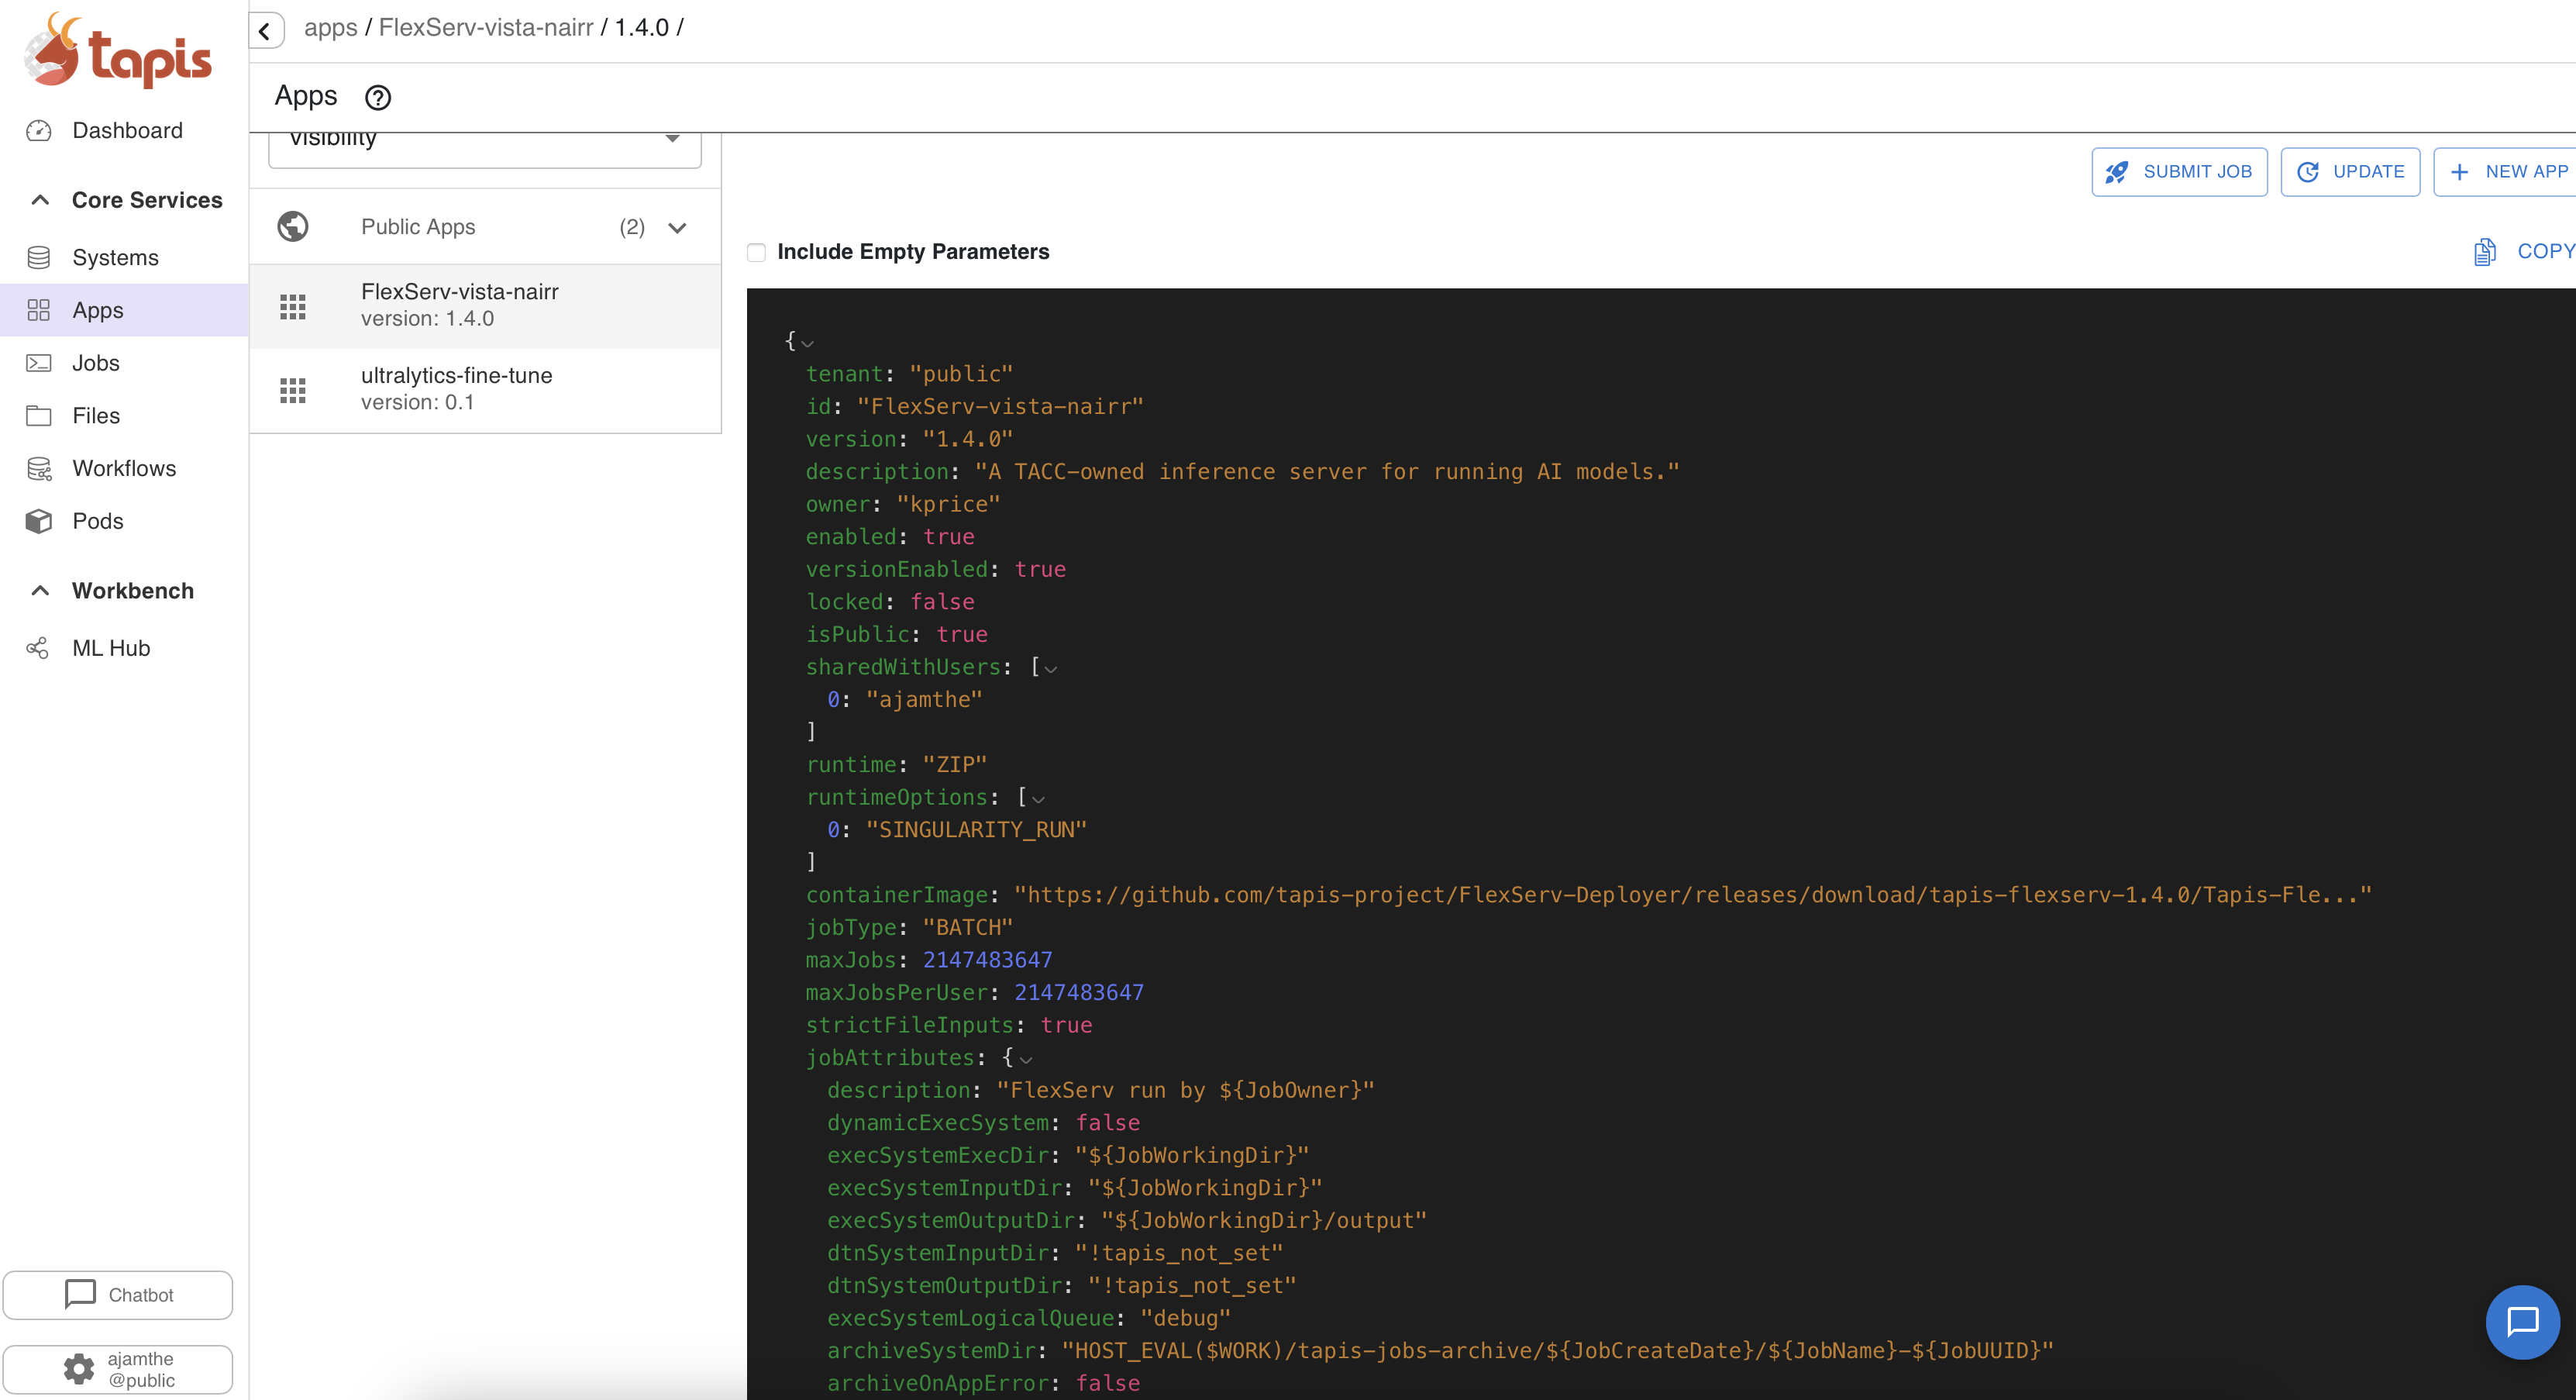
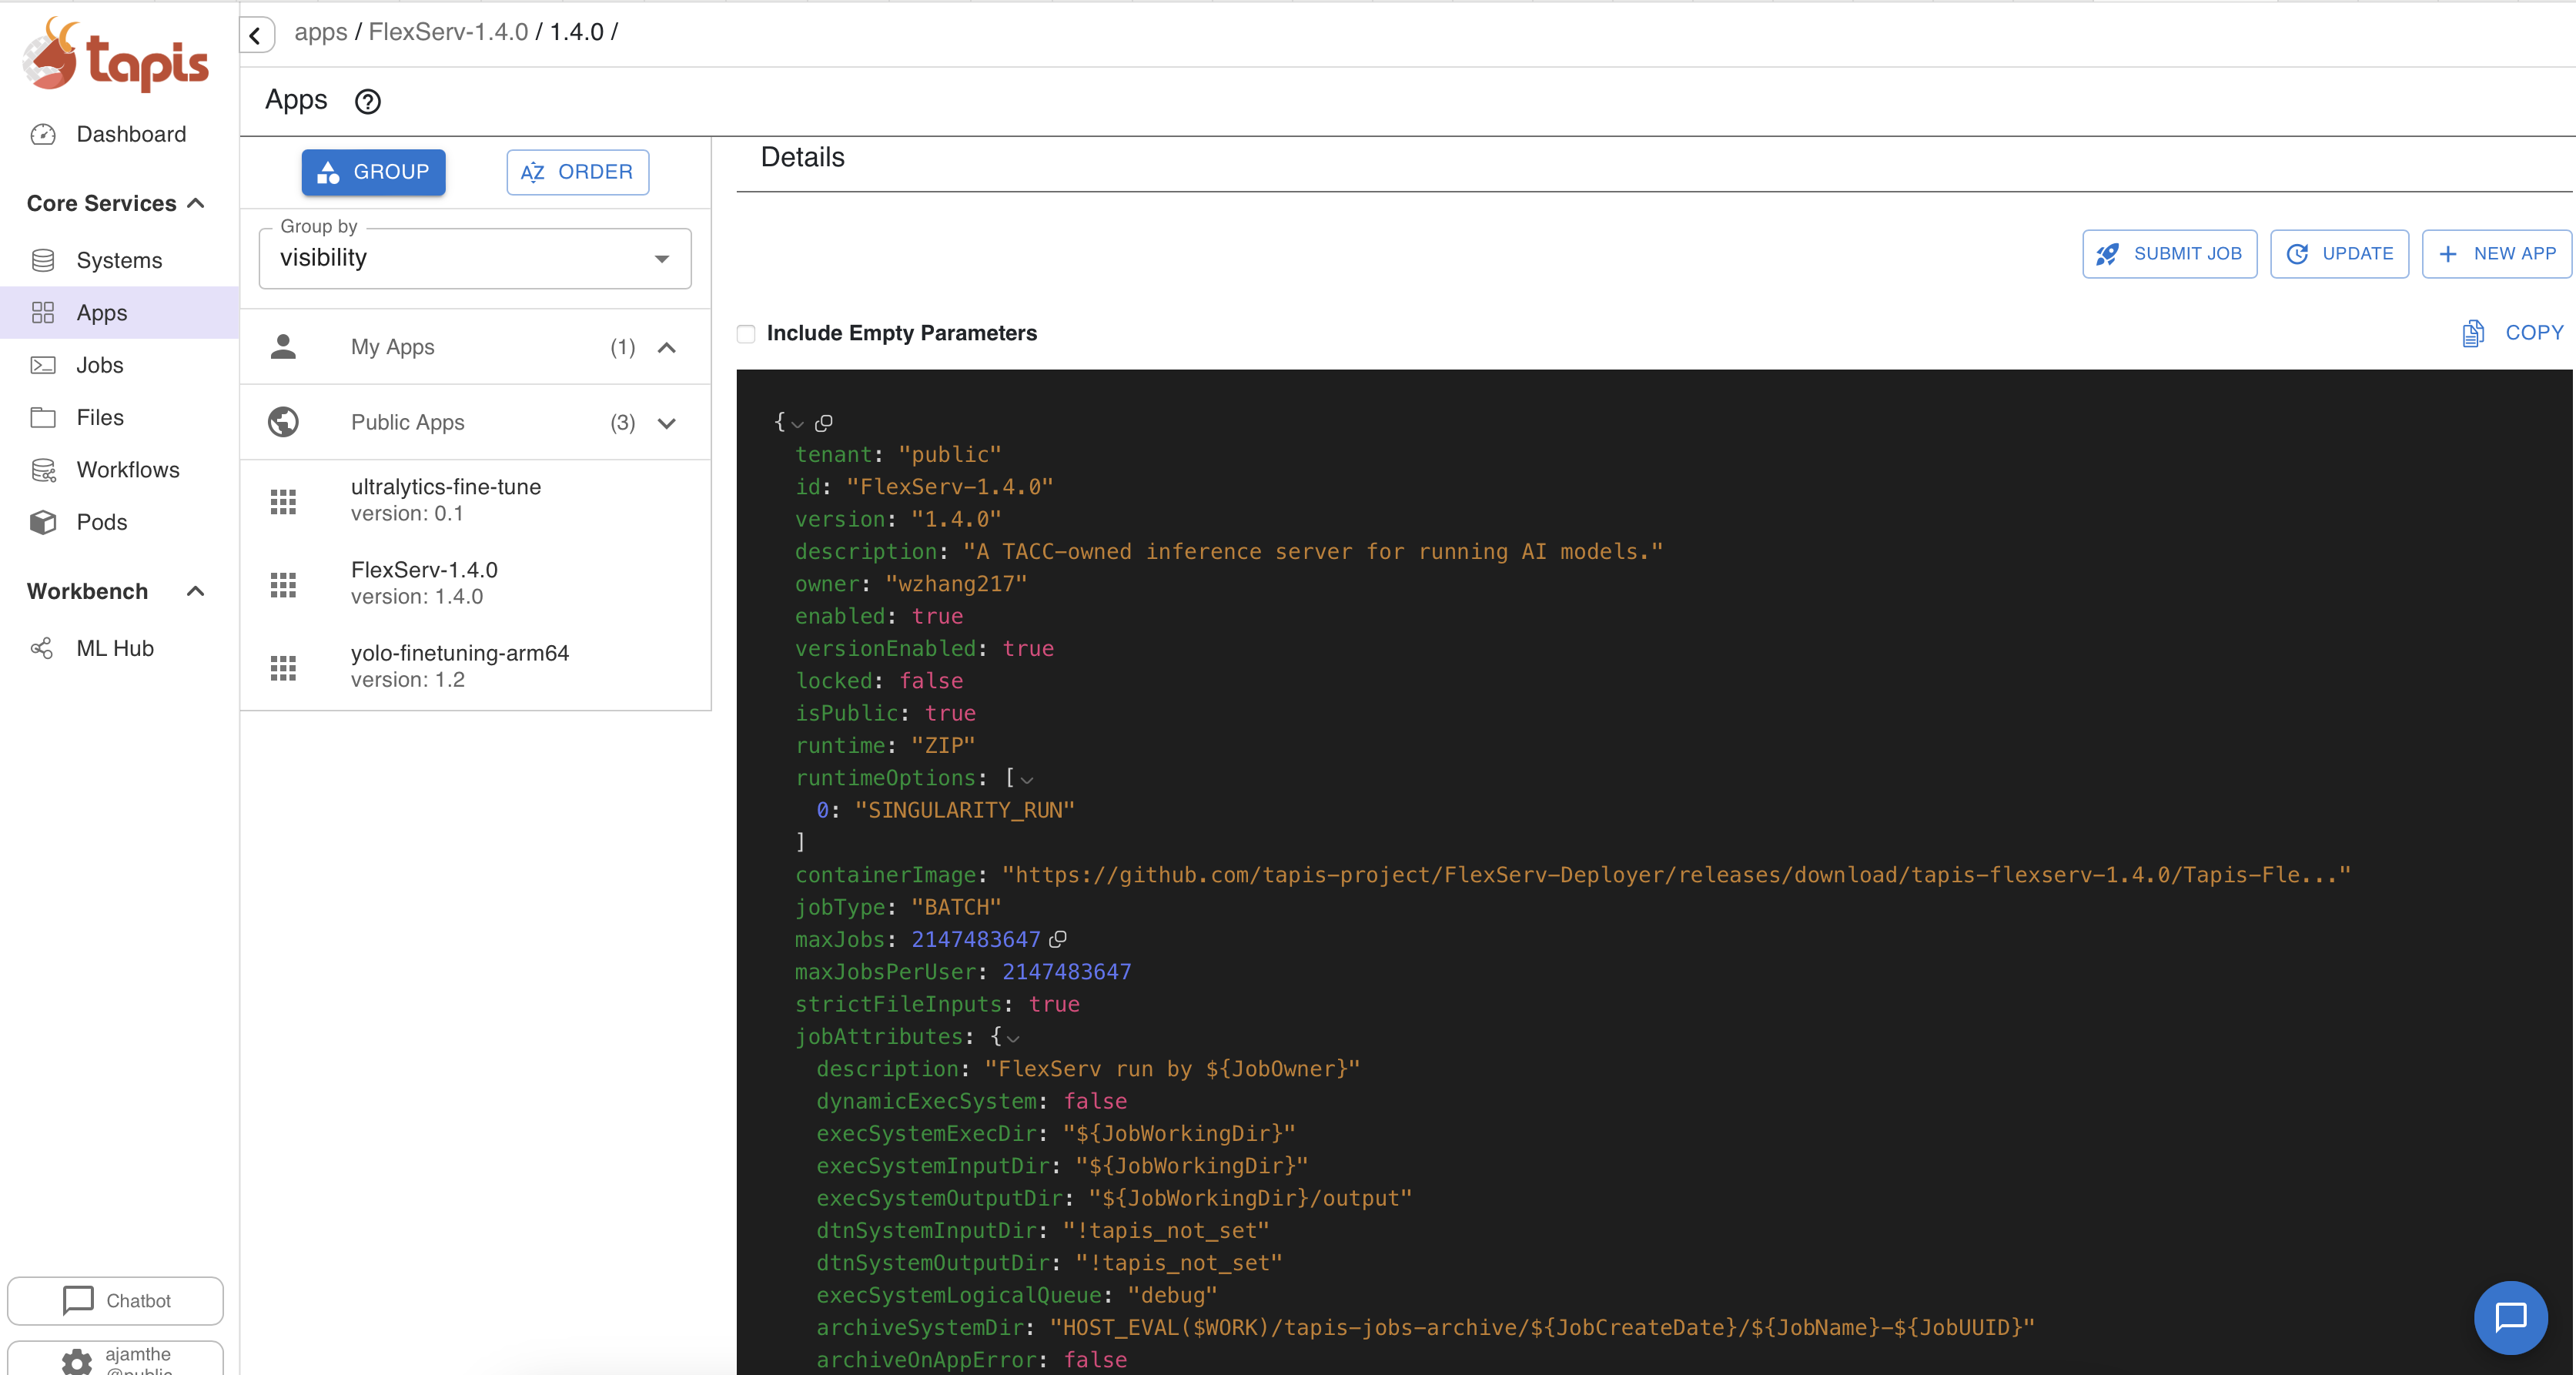
minor fixes

diff --git a/tutorials/Intro_Tapis/02-initial-tapis-ui.md b/tutorials/Intro_Tapis/02-initial-tapis-ui.md
@@ -76,7 +76,7 @@ From the left-hand menu, click on the **Files** tab and select the Vista system.
 
 ### Step 2.7: Test Uploading a File
 
-Try uploading a file to the Vista system using the upload functionality in the Files tab. This confirms that your credentials are working and that you have write access to the system.
+Try uploading a file to the Vista system using the upload functionality in the Files tab. This confirms that your credentials are working and that you have write access to the system. Uploaded file will be available in HOME directory of the Vista system.
 
 ---
 
@@ -88,11 +88,11 @@ In this tutorial, instead of creating an application from scratch, we will use t
 
 ### Step 2.8: Navigate to the Tapis Apps List
 
-Click on **Apps** from the left-hand menu in TapisUI. You will see a list of available applications. Toggle between "My Apps" and "Public Apps" to see the full list.
+Click on **Apps** from the left-hand menu in TapisUI. You will see a list of available applications. If users have private apps they can toggle between "My Apps" and "Public Apps" to see the full list.
 
 ### Step 2.9: Find the FlexServ Public App
 
-Look for the application **FlexServ-vista-nairr version 1.4.0** in the public apps list. FlexServ is a TACC-owned inference server for running AI models on HPC systems. It has been pre-registered as a public app for all users to submit jobs.
+Look for the application **FlexServ-1.4.0 version 1.4.0** in the public apps list. FlexServ is a TACC-owned inference server for running AI models on HPC systems. It has been pre-registered as a public app for all users to submit jobs.
 
 ![FlexServ Application](/tutorials/images/Flexserv_app.png)
 